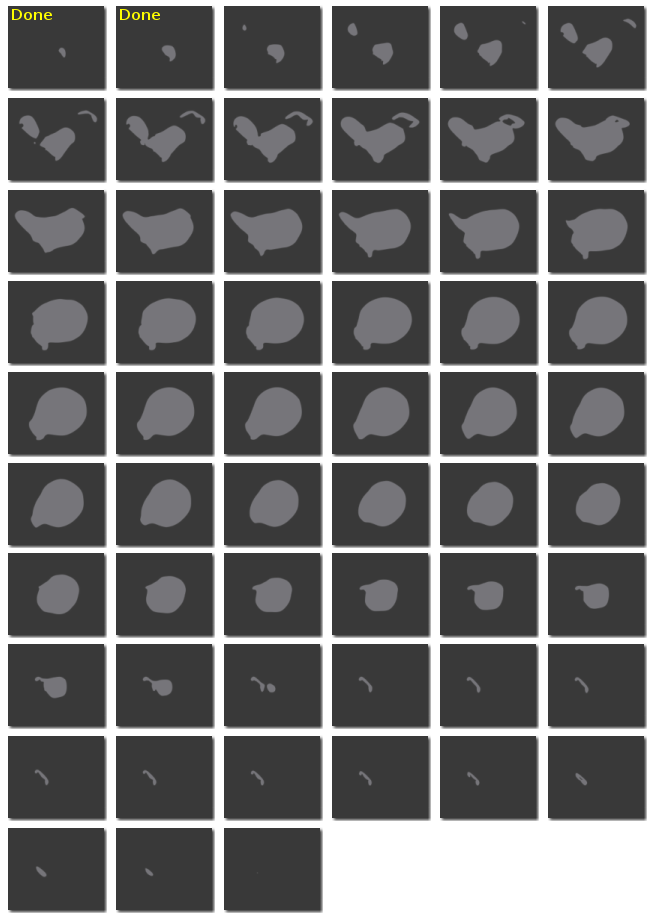
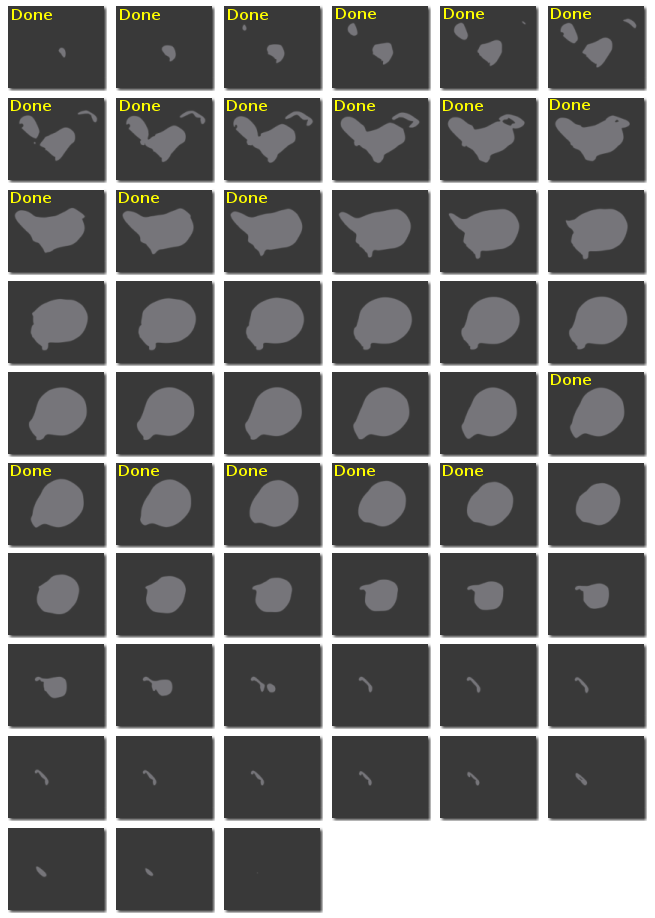
Updated the "sections_so_far.gif" and the date.
Note that Reconstruct didn't complete the Boissonnat surfacing when
generating the .wrl file, so this version shows only traces and not
surfaces.

diff --git a/README.md b/README.md
@@ -4,7 +4,7 @@ This project contains a "mystery" object to test the use of Git for tracing proj
 ## Invitation
 Each member of the Reconstruct team is encouraged to clone this repository and work on a few sections of the "mystery object" in Reconstruct. When you've added a trace or two (or modified someone else's traces), please commit and push your changes back to the GitHub repository and see what kinds of conflicts arise. Eventually, the entire object should be completed by the team.
 
-## The "Mystery Object" so far (May 18th, 2018) with 2 sections completed:
+## The "Mystery Object" so far (May 21st, 2018) with sections 1-15 and 30-35 completed:
 ![MysteryObject](images/sections_so_far.gif?raw=true "MysteryObject")
 
 
